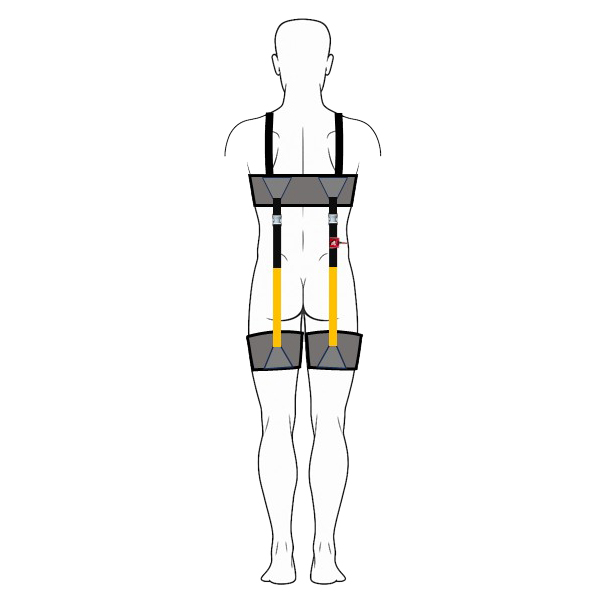
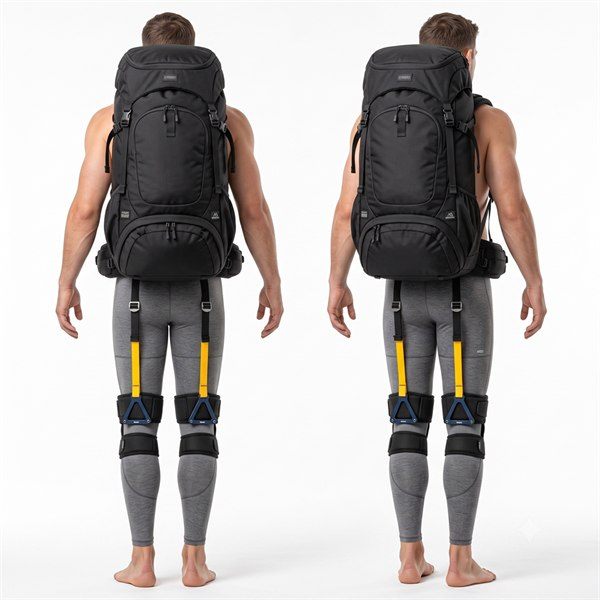
Update downhill walking card image
Swap the schematic line drawing for the photorealistic exosuit render,
resized to 600x600 JPEG to match the other card assets. Bump the src
cache-buster to v=2. Hover video playback is unaffected.

diff --git a/index.html b/index.html
@@ -385,7 +385,7 @@
         </div>
         <div class="card reveal">
           <div class="card-media" data-media data-vids="assets/downhill/1.mp4,assets/downhill/2.mp4">
-            <img class="gm-img" src="assets/downhill/photo.jpg" alt="Passive exosuit for downhill walking" loading="lazy">
+            <img class="gm-img" src="assets/downhill/photo.jpg?v=2" alt="Passive exosuit for downhill walking" loading="lazy">
             <video class="gm-vid" muted playsinline preload="none"></video>
             <span class="gm-hint">&#9654; Hover to play</span>
           </div>
